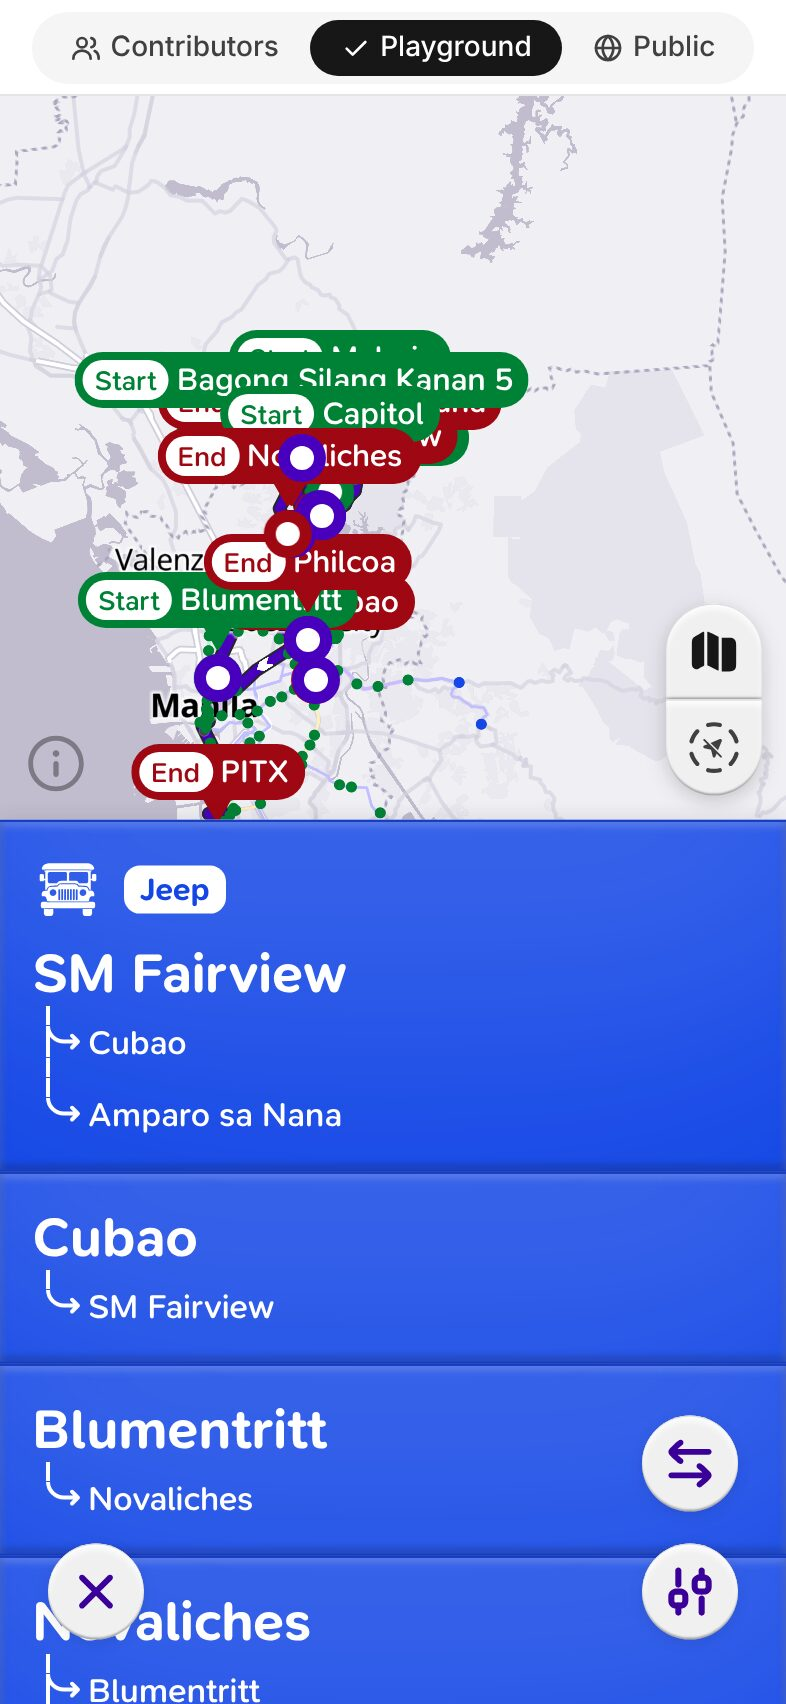
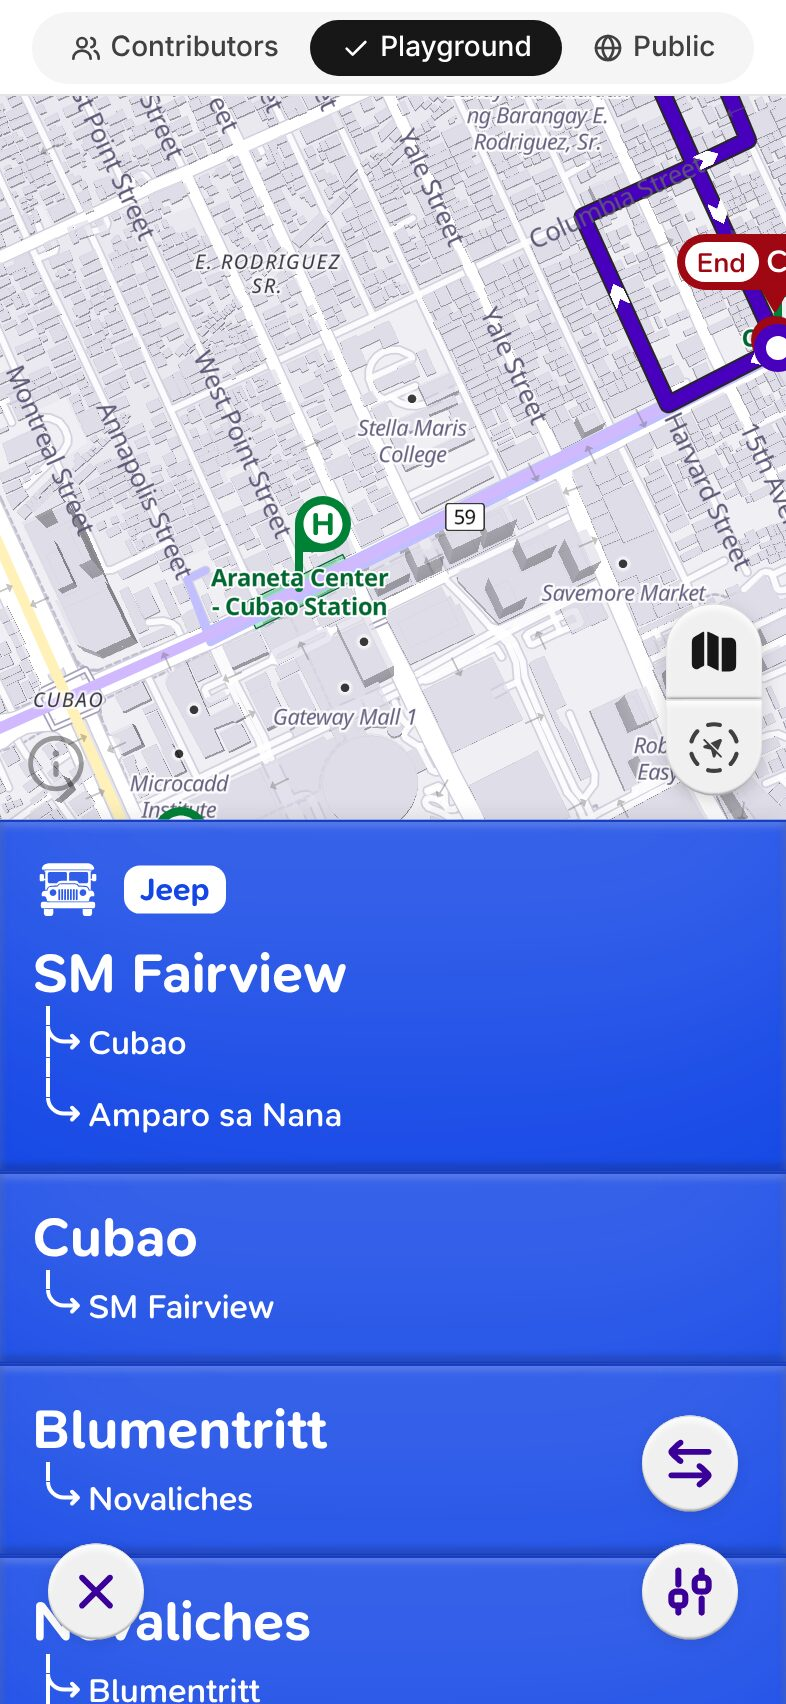
Map lines: the review's fixes, and the lit shots at street scale with a card's colour
The test that every route rests in exactly one layer, and the edited one in none, is back, for the
one pale line. The comments on surface-default and the casing say what each is for now.

Claude-Session: https://claude.ai/code/session_01U5oSczhNixr4VHxqvDJNwN

diff --git a/src/design-system/foundation/tokens.css b/src/design-system/foundation/tokens.css
@@ -241,9 +241,9 @@
 
   /* The map: its route lines and hintuans. Figma: Map/… Two looks, no
      opacity — every line at rest, the selected one drawn over it: see-through
-     lines stack and confuse. A road route rests in its card's line colour
-     (rail-rest-layers.ts); surface-default is the rest of a road trip past a
-     picked hintuan. Every line is cased in route-line-casing. */
+     lines stack and confuse. Every road route rests in surface-default, with
+     no rim (rail-rest-layers.ts), as does the rest of a road trip past a
+     picked hintuan. A lit line is cased in route-line-casing. */
   --map-route-line-surface-default: var(--color-parabrand-300);
   --map-route-line-surface-selected: var(--color-parabrand-800);
   --map-route-line-arrow-rest: var(--color-white);

diff --git a/src/design-system/foundation/map-colours.ts b/src/design-system/foundation/map-colours.ts
@@ -10,8 +10,8 @@ export const MAP_COLOURS = {
   'Map/RouteLine/surface-selected': '#4900be', // parabrand/800
   'Map/RouteLine/Arrow/Rest': '#ffffff', // white
   'Map/RouteLine/Arrow/Inverse': '#171717', // neutral/900
-  // Not named in Figma yet: the rim under every route line, so the pale modes (E-Jeep, UV Express)
-  // stand out on the light basemap.
+  // Not named in Figma yet: the rim under a lit route line, so a lit line in a pale mode's colour
+  // (E-Jeep, UV Express) stands out on the light basemap. A line at rest has none.
   'Map/RouteLine/casing': '#262626', // neutral/800
   'Map/RouteLine/Hintuan/surface-default': '#05df72', // green/400
   'Map/OverlayCard/Hintuan/surface': '#00c951', // green/500, at 30%
